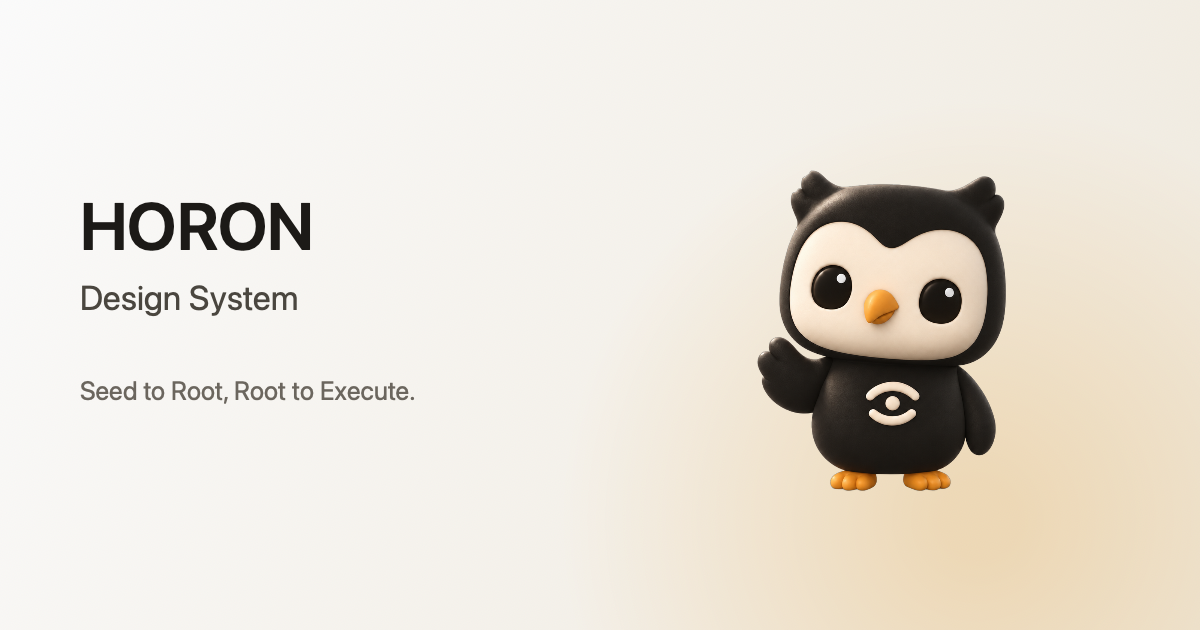
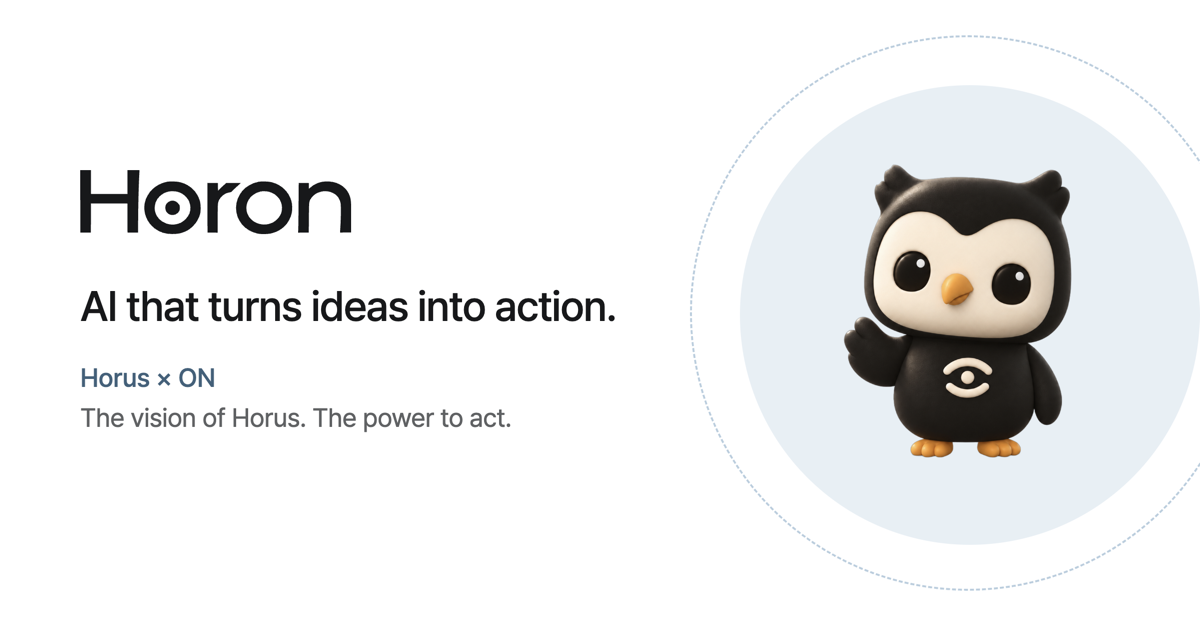
fix(site): stand the mascot on a sky plate in dark mode and redraw the share image with the brand lines

diff --git a/apps/site/src/i18n/messages/updates.ts b/apps/site/src/i18n/messages/updates.ts
@@ -8,6 +8,20 @@ export const updatesMessages = defineMessages({
     en: "A record of changes to the design system, newest first: which values changed and which components are new.",
   },
 
+  brandTitle: { ko: "Brand 기준으로 이름과 문구 정리", en: "Name and copy aligned with the Brand guide" },
+  brandItem1: {
+    ko: "홈 슬로건을 Brand의 세 줄(AI that turns ideas into action. / Horus × ON / The vision of Horus. The power to act.)로 바꿨습니다.",
+    en: "The home slogan now uses the three Brand lines (AI that turns ideas into action. / Horus × ON / The vision of Horus. The power to act.).",
+  },
+  brandItem2: {
+    ko: "제품 이름을 Horon으로 통일하고, 마스코트를 둥근 매로 부릅니다. 공유 이미지(og.png)도 새로 만들었습니다.",
+    en: "The product name is written Horon everywhere, and the mascot is called a round falcon. The share image (og.png) was redrawn.",
+  },
+  brandItem3: {
+    ko: "다크 모드에서는 마스코트를 하늘색 판 위에 둡니다.",
+    en: "In dark mode the mascot now stands on a sky plate.",
+  },
+
   figmaTitle: { ko: "Figma 기준으로 처음부터 다시 만듦", en: "Rebuilt from scratch on the Figma baseline" },
   figmaItem1: {
     ko: "토큰을 Figma Horon 파일의 변수에서 다시 읽었습니다. 라이트·다크 색, 13개 글자 스타일의 Web·Desktop·Mobile 크기, 반경, 그림자가 바뀌었습니다.",

diff --git a/DESIGN.md b/DESIGN.md
@@ -1,12 +1,12 @@
-# HORON Design System
+# Horon Design System
 
-HORON 제품의 화면을 만드는 토큰과 React 컴포넌트, 그리고 그 값을 그대로 보여 주는 문서 사이트의 계약입니다. 색·간격·글자·모션·표면 값을 `@horon-ai/tokens` 한 곳에서 정의하고, `@horon-ai/react`와 `apps/site`가 그 값을 그대로 소비합니다. 이 문서의 모든 값은 저장소의 실제 토큰과 컴포넌트에서 읽었으며, 외부 레퍼런스 브랜드의 값을 빌려오지 않습니다.
+Horon 제품의 화면을 만드는 토큰과 React 컴포넌트, 그리고 그 값을 그대로 보여 주는 문서 사이트의 계약입니다. 색·간격·글자·모션·표면 값을 `@horon-ai/tokens` 한 곳에서 정의하고, `@horon-ai/react`와 `apps/site`가 그 값을 그대로 가져다 씁니다. 이 문서의 모든 값은 저장소의 실제 토큰과 컴포넌트에서 읽었으며, 외부 레퍼런스 브랜드의 값을 빌려오지 않습니다.
 
 Core v2 anchors: `experience`, `foundations`, `typography-assets`, `components-states`, `layout-platforms`, `content-locales`, `governance`.
 
 ## 1. Experience
 
-**제품과 범위.** HORON Design System은 디자인과 코드가 같은 값을 바라보게 만드는 사내 디자인 시스템입니다. 표면은 두 가지입니다. 첫째, `@horon-ai/react`의 React 컴포넌트를 제품 화면에 바로 쓰는 라이브러리 표면. 둘째, `design.horon.ai`에서 토큰 값과 컴포넌트 프리뷰·사용법을 확인하는 문서 표면입니다. 이 문서는 두 표면, 그중에서도 문서 사이트의 셸과 페이지 구성을 규정합니다.
+**제품과 범위.** Horon Design System은 디자인과 코드가 같은 값을 쓰게 만드는 사내 디자인 시스템입니다. 표면은 두 가지입니다. 첫째, `@horon-ai/react`의 React 컴포넌트를 제품 화면에 바로 쓰는 라이브러리 표면입니다. 둘째, `design.horon.ai`에서 토큰 값과 컴포넌트 프리뷰·사용법을 확인하는 문서 표면입니다. 이 문서는 두 표면, 그중에서도 문서 사이트의 셸과 페이지 구성을 규정합니다.
 
 **핵심 과업.** 문서 사이트 방문자는 세 가지를 가장 빠르게 얻습니다.
 
@@ -16,9 +16,9 @@ Core v2 anchors: `experience`, `foundations`, `typography-assets`, `components-s
 
 따라서 모든 페이지는 "무엇을 하는 컴포넌트인가 → 어떻게 생겼는가 → 어떻게 쓰는가" 순서를 지킵니다. 마케팅 문구나 기능 소개보다 값과 예시가 먼저 옵니다.
 
-**방향.** 잉크(`--color-text-primary`)와 종이(`--color-bg-default`)를 백본으로 두고, 하늘색(`--color-sky-500`, `--color-sky-700`)을 브랜드 액센트로 씁니다. 표면은 리퀴드 글래스 레이어로 깊이를 만들고, 그림자와 그라데이션으로 장식하지 않습니다. 문장은 짧고 건조하게, 화면은 값의 밀도가 드러나게 구성합니다.
+**방향.** 잉크(`--color-text-primary`)와 종이(`--color-bg-default`)가 기본이고, 하늘색(`--color-sky-500`, `--color-sky-700`)을 브랜드 액센트로 씁니다. 표면은 리퀴드 글래스 레이어로 깊이를 만들고, 그림자와 그라데이션으로 장식하지 않습니다. 문장은 짧고 건조하게, 화면은 값의 밀도가 드러나게 구성합니다.
 
-**레퍼런스 권위.** HORON 자체 토큰·컴포넌트·README·`assets/README.md`가 유일한 권위입니다. 외부 브랜드의 색, 반경, 서체, 카피 톤을 가져오지 않습니다.
+**레퍼런스 권위.** Horon 자체 토큰·컴포넌트·README·`assets/README.md`가 유일한 권위입니다. 외부 브랜드의 색, 반경, 서체, 카피 톤을 가져오지 않습니다. 이름 표기, 슬로건, 마스코트 규칙은 Paper `Horon-design` 파일의 Brand·Mascot 페이지를 따릅니다. 제품 이름은 대문자 H 하나로 `Horon`이라 쓰고, 슬로건 세 줄(`AI that turns ideas into action.` → `Horus × ON` → `The vision of Horus. The power to act.`)은 이 순서로 바꿔 말하지 않고 씁니다.
 
 ## 2. Foundations
 
@@ -152,10 +152,10 @@ Core v2 anchors: `experience`, `foundations`, `typography-assets`, `components-s
 
 ### 3.5 자산
 
-- **아이콘.** `@phosphor-icons/react`를 기본 세트로 쓰고, HORON 고유 표식은 `HoronIcon`(라인 팔콘 눈, `currentColor`, `size` prop)을 씁니다. 다른 아이콘 세트를 섞지 않습니다.
-- **워드마크.** `HoronWordmark`는 `currentColor` 벡터이고 기본 높이 11.5px입니다. 텍스트로 "HORON"을 다시 조판하지 않습니다.
-- **마스코트.** `assets/horon-mascot-*.png` 26컷, 1254×1254 RGBA 투명 배경. 팔레트는 `--color-mascot-ink`(#1c1a17), `--color-mascot-cream`(#fbf7f0), `--color-mascot-gold`(#e0921f)입니다. 문서 사이트는 `apps/site/public/mascots/*.webp`로 변환한 파일을 씁니다.
-- **메타 이미지.** `og.png`(1200×630), `icon.png`(256), `icon-512.png`, `apple-icon.png`(180), `favicon.ico`.
+- **아이콘.** `@phosphor-icons/react`를 기본 세트로 쓰고, Horon 고유 표식은 `HoronIcon`(라인 팔콘 눈, `currentColor`, `size` prop)을 씁니다. 다른 아이콘 세트를 섞지 않습니다.
+- **워드마크.** `HoronWordmark`는 `currentColor` 벡터이고 기본 높이 11.5px입니다. 워드마크 자리에 글자로 "Horon"을 다시 조판하지 않습니다.
+- **마스코트.** 둥근 매 한 캐릭터입니다. `assets/horon-mascot-*.png` 26컷, 1254×1254 RGBA 투명 배경. 팔레트는 `--color-mascot-ink`(#1c1a17), `--color-mascot-cream`(#fbf7f0), `--color-mascot-gold`(#e0921f)입니다. 문서 사이트는 `apps/site/public/mascots/*.webp`로 변환한 파일을 씁니다. 몸이 잉크색이라 밝은 바탕에만 두고, 다크 모드에서는 `--color-sky-100` 판(`dark:bg-sky-100`) 위에 둡니다.
+- **메타 이미지.** `og.png`(1200×630, Paper Cover 구성: 워드마크, 슬로건 세 줄, 하늘색 원 위의 main 컷), `icon.png`(256), `icon-512.png`, `apple-icon.png`(180), `favicon.ico`.
 - **라이선스.** Pretendard는 SIL Open Font License 1.1, Geist Mono는 SIL Open Font License 1.1입니다. 마스코트는 저장소가 소유한 브랜드 자산이며 `assets/README.md`에 제작 경위가 있습니다. 저장소 밖 재배포 조건은 별도 라이선스 파일로 선언되어 있지 않습니다.
 
 ## 4. Components & States
